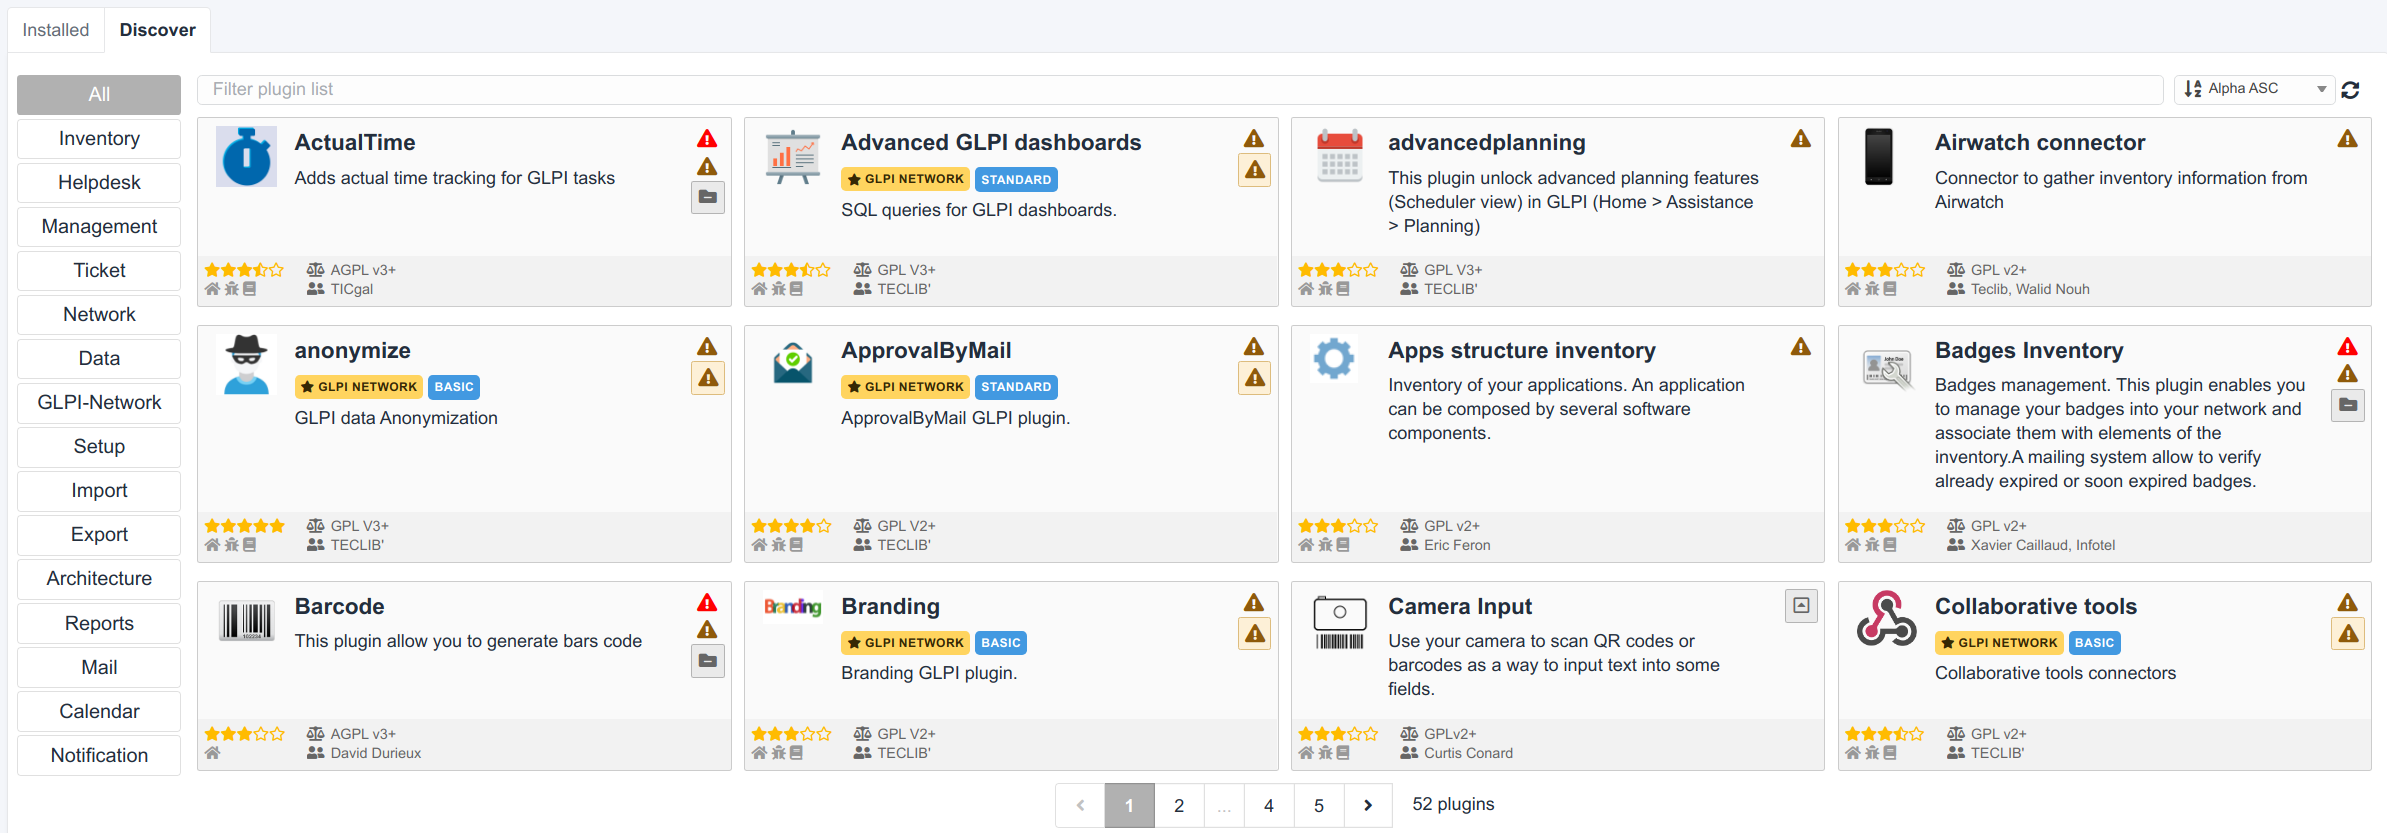
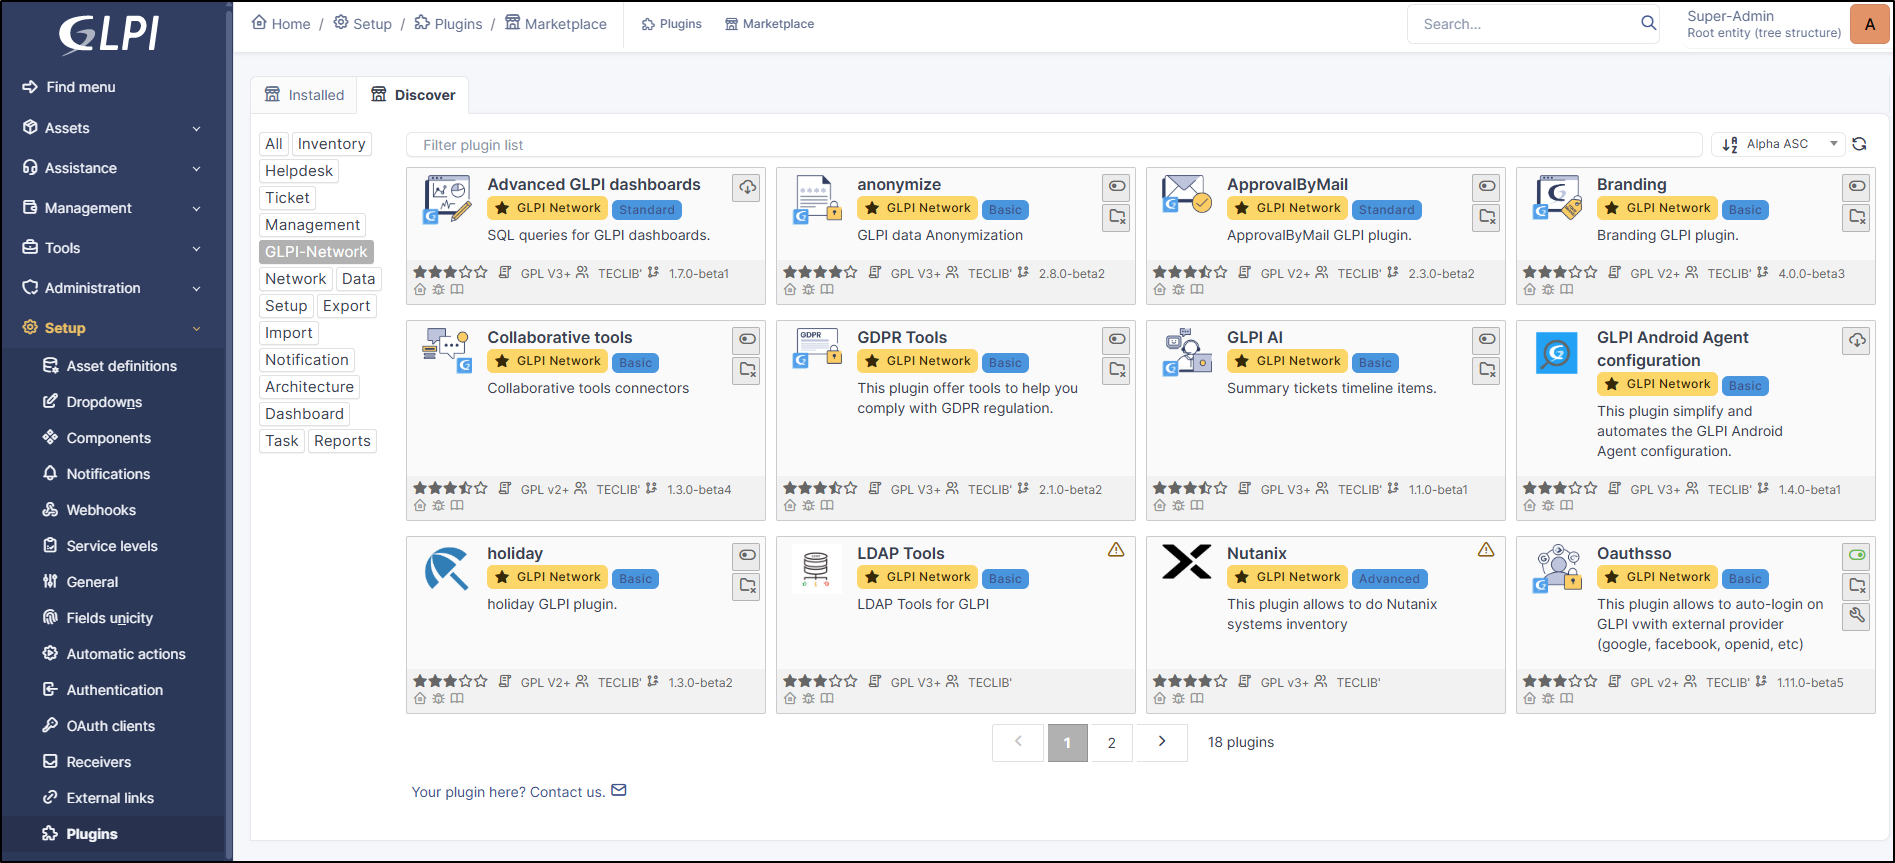
feat(content): update plugins

diff --git a/source/modules/configuration/plugins.rst b/source/modules/configuration/plugins.rst
@@ -5,8 +5,6 @@ Adding and maintaining extensions (plugins) in GLPI.
 
 .. warning:: Before installing or updating a plugin, it is recommended that you perform a backup of your GLPI database.
 
-Starting in GLPI 9.5.0, you can install and update plugins directly from the GLPI web interface.
-
 The first time you go to the plugins page under `Setup > Plugins`, you will be asked if you want to use the marketplace UI by default or the older plugin list.
 Regardless of your choice, you can always switch UIs by clicking the "Marketplace" and "Plugins" buttons at the top of the page.
 You may install plugins using both methods. If a plugin is install through the marketplace and manually for some reason, the version installed through the marketplace will be used.
@@ -26,9 +24,9 @@ On the left, you can select a category to filter plugins and use the search bar 
 
 .. image:: images/marketplace_discover.png
    :alt: Discover tab in Marketplace
-   :align: center
+   :scale: 38%
 
-Any plugin that has a `GLPI NETWORK` requires a non-free subscription. These plugins will also indicate the tier required such as `BASIC` or `STANDARD`. Each paid tier includes the plugins from the lower tiers.
+Any plugin that has a `GLPI NETWORK` requires a non-free subscription. These plugins will also indicate the tier required such as `BASIC`, `STANDARD`or `ADVANCED`. Each paid tier includes the plugins from the lower tiers.
 
 Installing plugins
 ^^^^^^^^^^^^^^^^^^
@@ -40,6 +38,14 @@ Plugins installed via the marketplace are stored in the `marketplace` folder in 
 
 After installation, the install button will change to an enable toggle. You will need to click that button to enable the plugin after installation.
 
+.. image:: images/search_plugin.png
+   :alt: Search a plugin in marketplace
+   :scale: 38%
+
+.. note:: Some plugins require specific configuration.
+   You can click on the spanner icon to access this configuration. This plugin will also appear in the corresponding module (support, management, tools, administration, setup).
+
+
 Updating plugins
 ^^^^^^^^^^^^^^^^
 
@@ -47,6 +53,10 @@ In the marketplace UI on the `Installed` tab, you can see all the plugins curren
 
 Similar to installing plugins, there will be an update button showing if an update is available or one or more errors if there is some issue preventing an update.
 Like with installing plugin, you will need to re-enable the plugins after an update.
+
+.. image:: images/update_plugin.png
+   :alt: Update a plugin in marketplace
+   :scale: 100%
 
 Manually managing plugins
 --------------------------
@@ -70,3 +80,30 @@ When you uninstall a plugin using the uninstall button in the plugin list or in 
 
 To permanently remove the plugin, it is necessary to delete the plugin's folder.
 After removing the plugin's folder there should be a new "cleanup" action available for the plugin in GLPI. This will remove the reference to the plugin from the database.
+
+.. image:: images/uninstall_plugin.png
+   :alt: Uninstall plugin
+   :scale: 100%
+
+
+
+Plugins and Update GLPI
+-----------------------
+
+When GLPI is updated, you can suspend the plugins.
+This allows you to preserve the state of a plugin before the GLPI update and restore it to its previous state once the update is complete.
+This avoids having to activate the plugins one by one and avoid activating a plugin that was not activated.
+
+If GLPI behaves abnormally, you can also use this option to suspend all plugins and and check that the anomaly is not due to a plugin you have installed.
+
+- To suspend your plugins, click on ``Suspend execution of all plugins``:
+
+.. image:: images/plugins_enabled.png
+   :alt: Plugins enabled
+   :scale: 38%
+
+- To reactivate the status of plugins before suspension click on ``Resume execution of all active plugins``:
+
+.. image:: images/plugins_suspended.png
+   :alt: Plugins suspended
+   :scale: 38%
